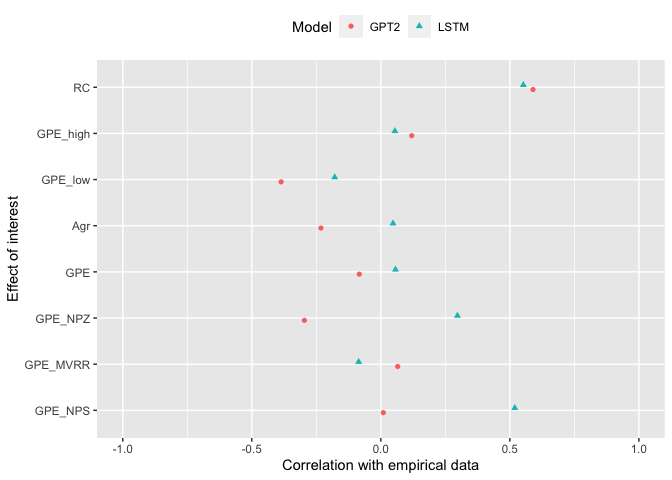
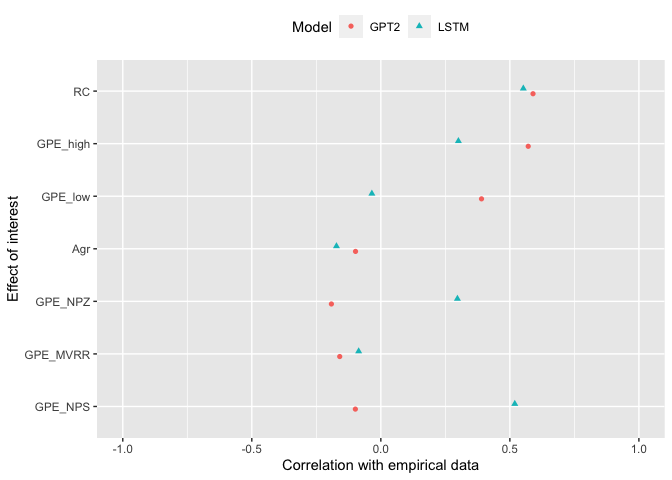
updated plots

diff --git a/plots/spr/generate_plots.md b/plots/spr/generate_plots.md
@@ -198,7 +198,9 @@ by_item_cor <- by_item %>%
 ```
 
 ``` r
-ggplot(by_item_cor, aes(y=coef, x=cor, colour=model, shape=model)) +
+ggplot(by_item_cor %>%
+         filter(coef != 'GPE'),
+       aes(y=coef, x=cor, colour=model, shape=model)) +
   geom_point(position = position_dodge(width=0.2)) + 
   labs(x='Correlation with empirical data', y = 'Effect of interest', colour='Model', shape = 'Model') + 
   xlim(c(-1,1)) +
